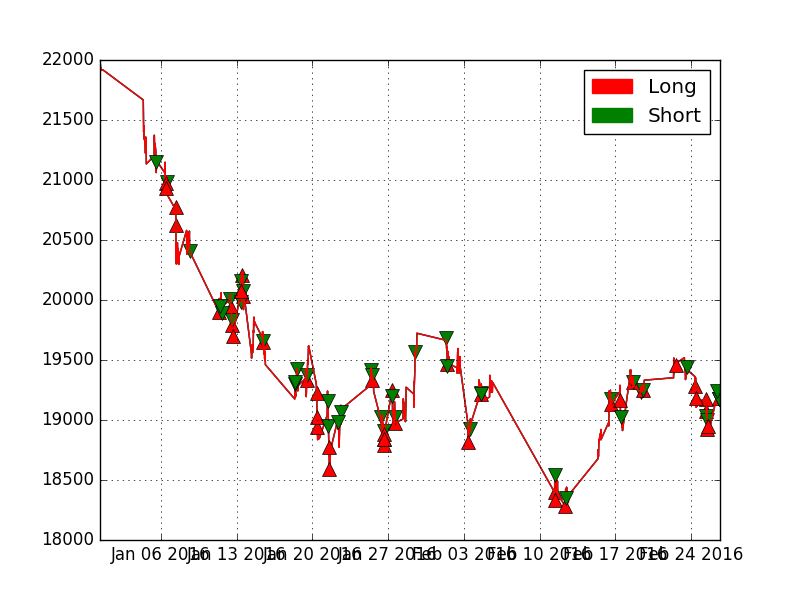
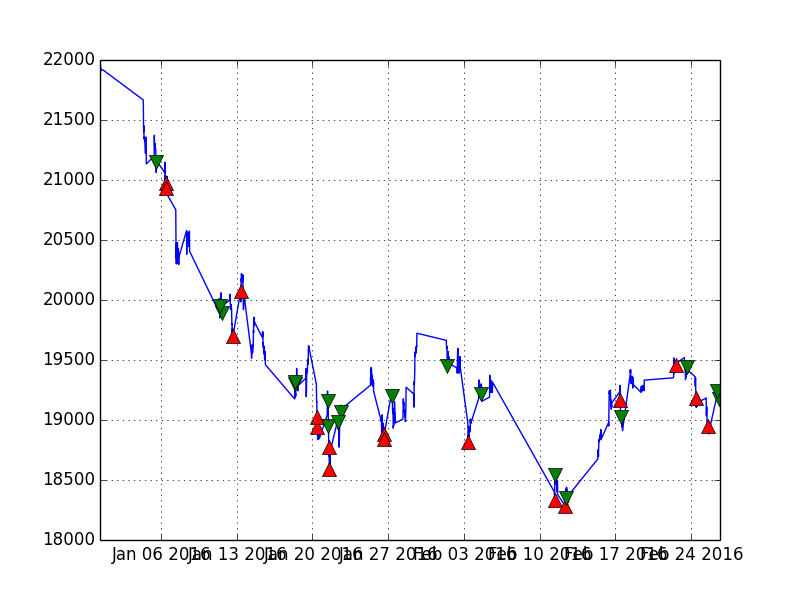
Correct PLT & revise MACD

diff --git a/source/strategies/MACD.py b/source/strategies/MACD.py
@@ -49,12 +49,12 @@ class MACD(Strategy):
                         flag =2
                         signals.append(signal)
             elif flag ==1:
-                if df.loc[i, 'Close']>= signal[4]*1.01 or df.loc[i, 'Close']<= signal[3]*0.98 or (df.loc[i, 'Date']-signal[1])>timedelta(days=5):
+                if df.loc[i, 'Close']>= signal[4]*1.01 or df.loc[i, 'Close']<= signal[4]*0.98 or (df.loc[i, 'Date']-signal[1])>timedelta(days=5):
                     signal = self.SellToCover('HSI', df, i, quantity, self.name)
                     flag = 0
                     signals.append(signal)
             elif flag ==2:
-                if df.loc[i, 'Close']<= signal[4]*0.99 or df.loc[i, 'Close']>= signal[3]*1.02 or (df.loc[i, 'Date']-signal[1])>timedelta(days=5):
+                if df.loc[i, 'Close']<= signal[4]*0.99 or df.loc[i, 'Close']>= signal[4]*1.02 or (df.loc[i, 'Date']-signal[1])>timedelta(days=5):
                     signal = self.BuyToCover('HSI', df, i, quantity, self.name)
                     flag = 0
                     signals.append(signal)
@@ -93,7 +93,7 @@ class MACD(Strategy):
 
         plt.grid()
         plt.savefig("image/MACD.png")
-
+        plt.close()
         return sig
 
 """test MACD

diff --git a/source/strategies/ACOscillator.py b/source/strategies/ACOscillator.py
@@ -92,7 +92,7 @@ class ACOscillator(Strategy):
                  buyToCoverSignals['Time'], buyToCoverSignals['Price'], 'r^',
                  shortSignals['Time'], shortSignals['Price'], 'gv',
                  sellToCoverSignals['Time'], sellToCoverSignals['Price'], 'gv',
-                 markersize=6)
+                 markersize=10)
         red_patch = mpatches.Patch(color='red', label='Long')
         green_patch = mpatches.Patch(color='green', label='Short')
         plt.legend(handles=[red_patch, green_patch])

diff --git a/source/strategies/DM_RSI_ADX.py b/source/strategies/DM_RSI_ADX.py
@@ -89,7 +89,7 @@ class DM_RSI_ADX(Strategy):
                  buyToCoverSignals['Time'], buyToCoverSignals['Price'], 'r^',
                  shortSignals['Time'], shortSignals['Price'], 'gv',
                  sellToCoverSignals['Time'], sellToCoverSignals['Price'], 'gv',
-                 markersize=6)
+                 markersize=10)
         red_patch = mpatches.Patch(color='red', label='Long')
         green_patch = mpatches.Patch(color='green', label='Short')
         plt.legend(handles=[red_patch, green_patch])
